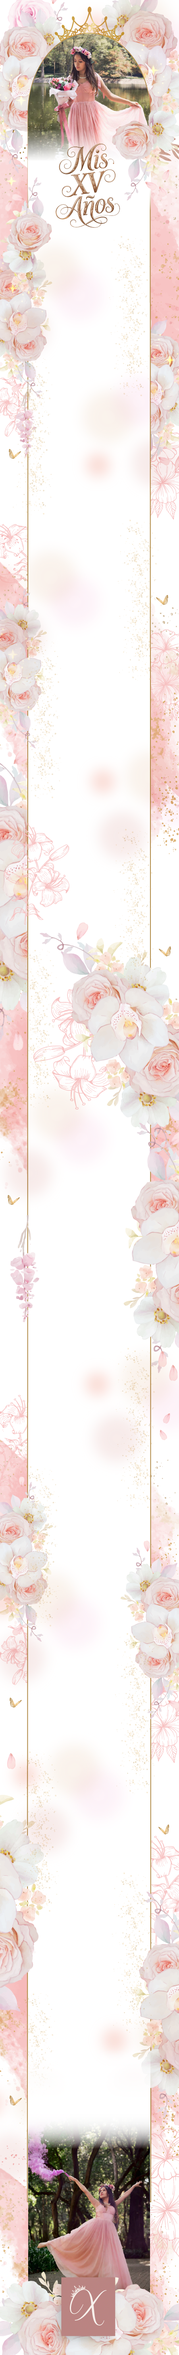
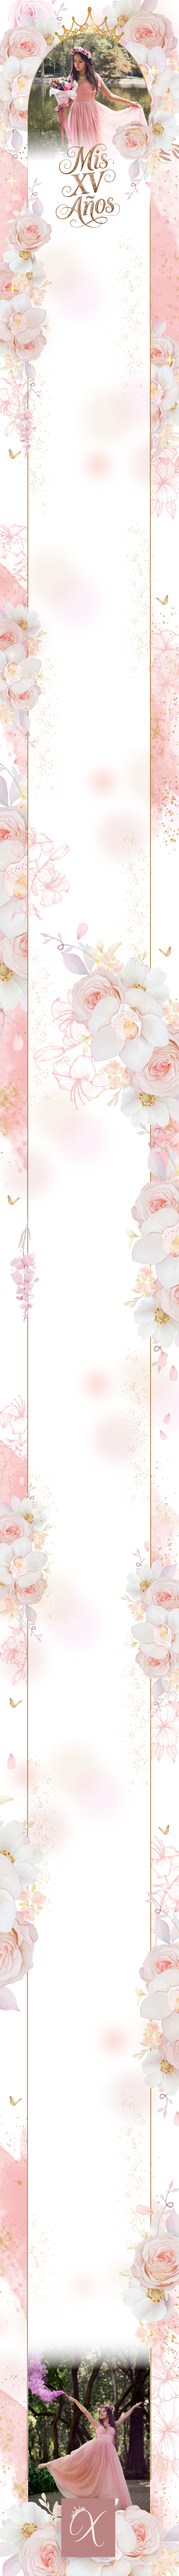
ximena

diff --git a/invi/invitacion_xv/ximena_mendoza/invitacion.html b/invi/invitacion_xv/ximena_mendoza/invitacion.html
@@ -33,11 +33,11 @@
        .background {
         background-image: url('img/fondo.png'); /* Ruta de tu imagen */
         background-repeat: no-repeat; /* Evita que se repita */
-        background-size: 450px 5903px; /* Tamaño exacto */
+        background-size: 450px 6456px; /* Tamaño exacto */
         background-position: top center; /* Centrado en la parte superior */
         width: 100%; /* Ancho fijo */
 		max-width: 450px; /* Ancho máximo */
-        min-height: 5903px; /* Altura exacta */
+        min-height: 6456px; /* Altura exacta */
         margin: 0 auto;
         animation: slideIn 1.5s ease-out;
 		position: relative;
@@ -1176,7 +1176,8 @@ conmigo!</p>
                 <div class="timeline-item">
 					<div class="section-icon-event"></div> <!-- Ícono con enlace a la imagen -->
                     <h2 class="section-title">Recepción del evento</h2>
-                    <p class="section-content">
+                    <p class="section-content"><strong>Salón de Eventos Maribel</strong><br>
+
 Calz. Ermita Iztapalapa # 2546<br>Esq. Ciro B. Ceballos<br>Col. Constitución de 1917<br>CP. 09260 
 					</p>
                     <p class="section-content-hora">Hora: 7:30 pm</p>
@@ -1249,7 +1250,7 @@ de sobres que he preparado.</p>
         <p class="final-content">Da click aquí para subir<br> las fotos que tomes<br>
  durante la fiesta y formar <br>parte de mis recuerdos más especiales.</p>
        
-        <a href="#" class="confirm-button"><strong><em>Subir Fotos</em></strong></a>
+        <a href="https://drive.google.com/drive/folders/10L3Js5hS1us0CFYc6pIlTzyg481TezBz?usp=drive_link" class="confirm-button"><strong><em>Subir Fotos</em></strong></a>
     </div>
 			
     <!-- Sugerencia de Hospedaje 
@@ -1330,19 +1331,18 @@ de sobres que he preparado.</p>
     </div>
 
     
-    <!-- Confirmación WhatsApp 
+    <!-- Confirmación WhatsApp--> 
     <div class="final-item">
         <div class="whatsapp-icon"></div>
         <h2 class="final-title">Confirma tu asistencia</h2>
         <p class="final-content">Tu presencia es muy importante<br>
- para mí.<em>Por eso te pido que confirmes tu asistencia.</em><br>
-Da click en el botón y escribas tu nombre.
+ para mí.<em>Por eso te pido que confirmes tu asistencia en mi panel de invitados.</em>
 </p><br>
 
-        <button class="confirm-button" onclick="ArteInvita.open('286-8351-D7C')" >
+        <button class="confirm-button" onclick="ArteInvita.open('CF3-44E2-1B2')" >
           <strong> Confirmar Asistencia</strong> </button>
     </div>
-			-->
+			
 </section>	
 			
 			
